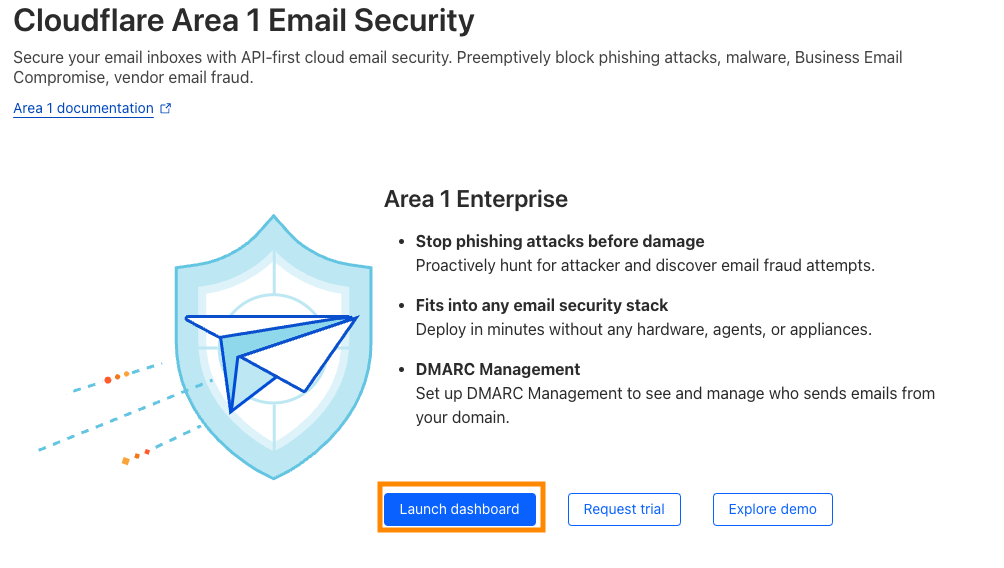
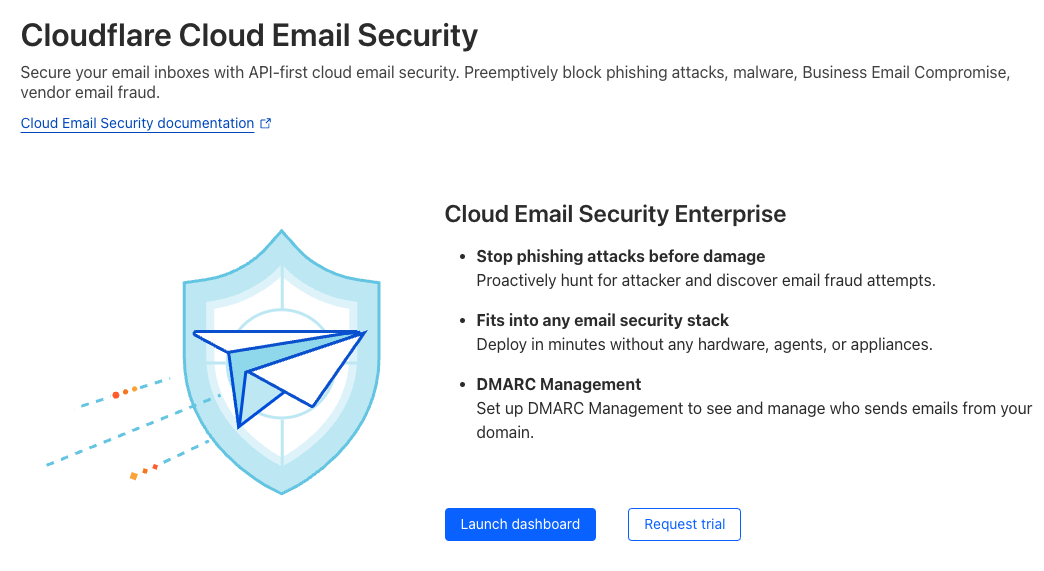
[CES] Update image

diff --git a/content/email-security/account-setup/connect-cloudflare-account.md b/content/email-security/account-setup/connect-cloudflare-account.md
@@ -22,7 +22,7 @@ To connect a Cloudflare account from the dashboard:
 4. Select **Allow**, so that Area 1 can make changes to your Cloudflare account.
 
 ![Select Allow to make changes to your Cloudflare account](/images/email-security/sso/generic/area1-allow.png)
-5. After selecting Allow, log in to Area 1.
+5. After selecting **Allow**, log in to Area 1.
 6. From here, you can either log in via [Cloudflare's Single Sign-on](https://horizon.area1security.com/), or via the **Launch dashboard** button.
 
 ## Connect account from Cloud Email Security (formerly Area 1)
